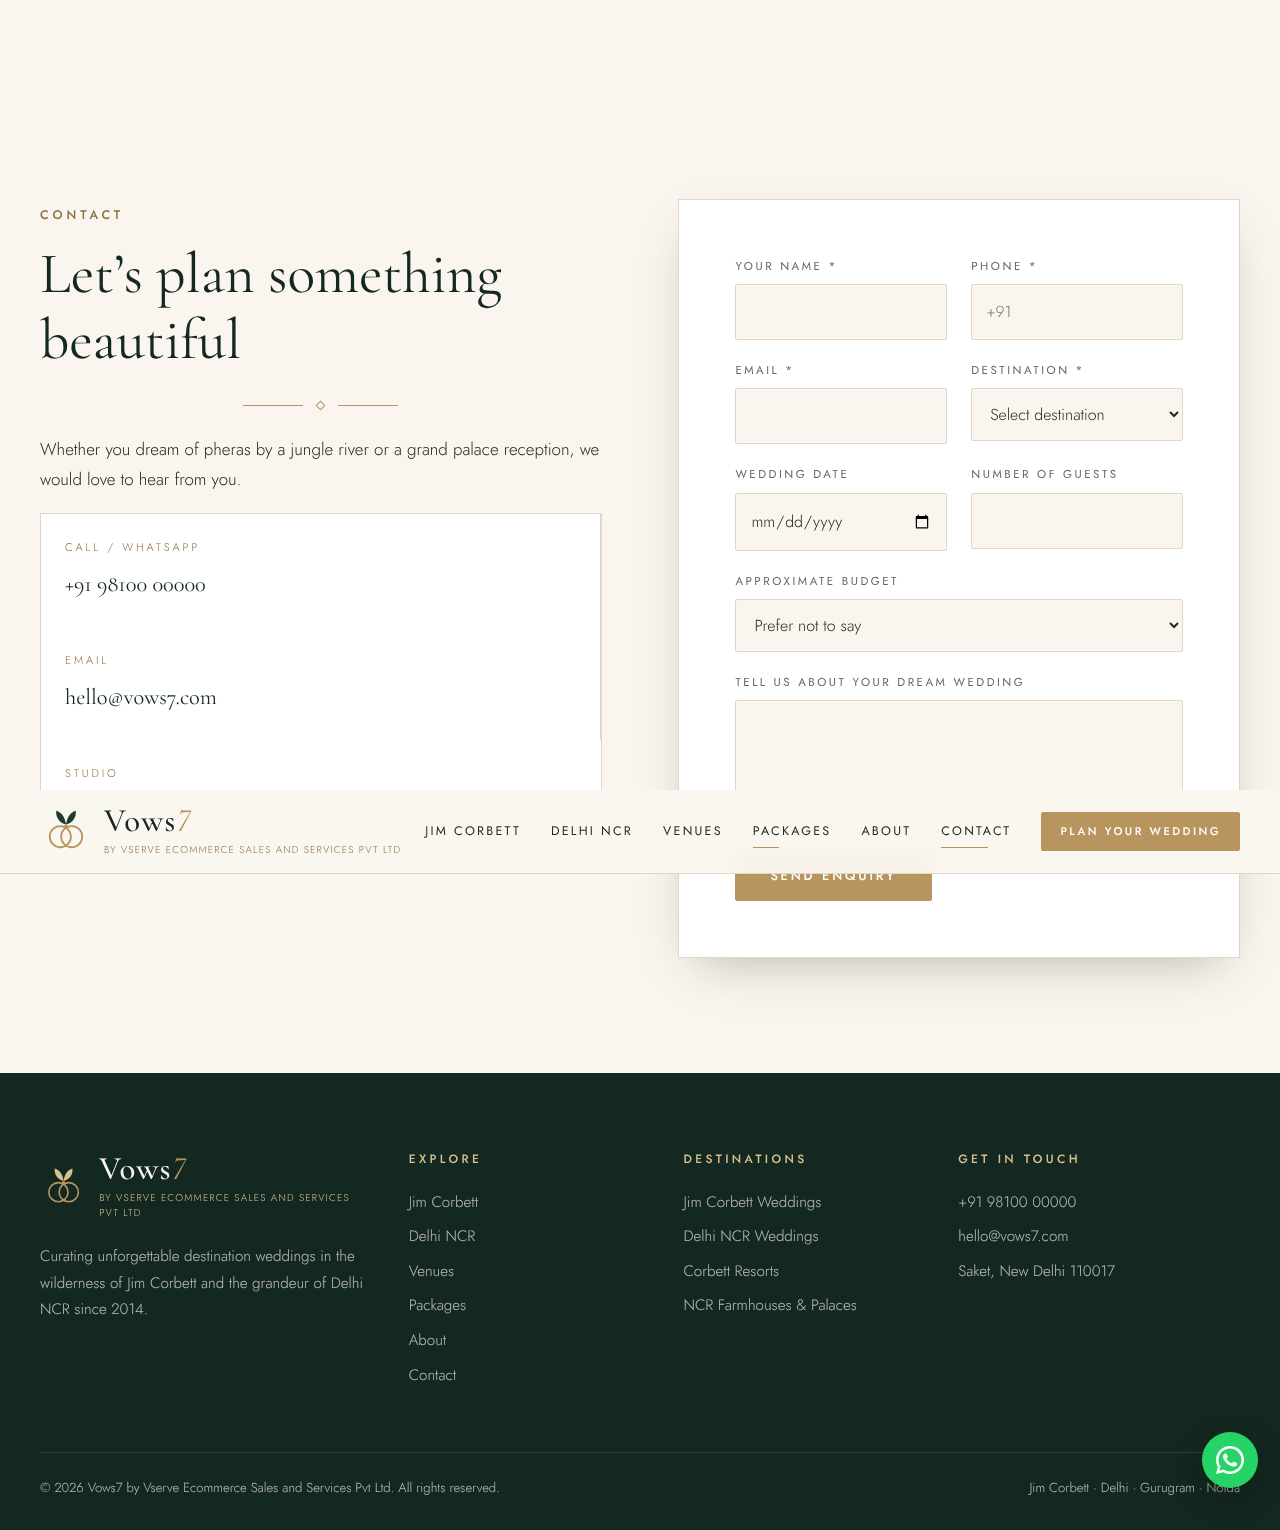
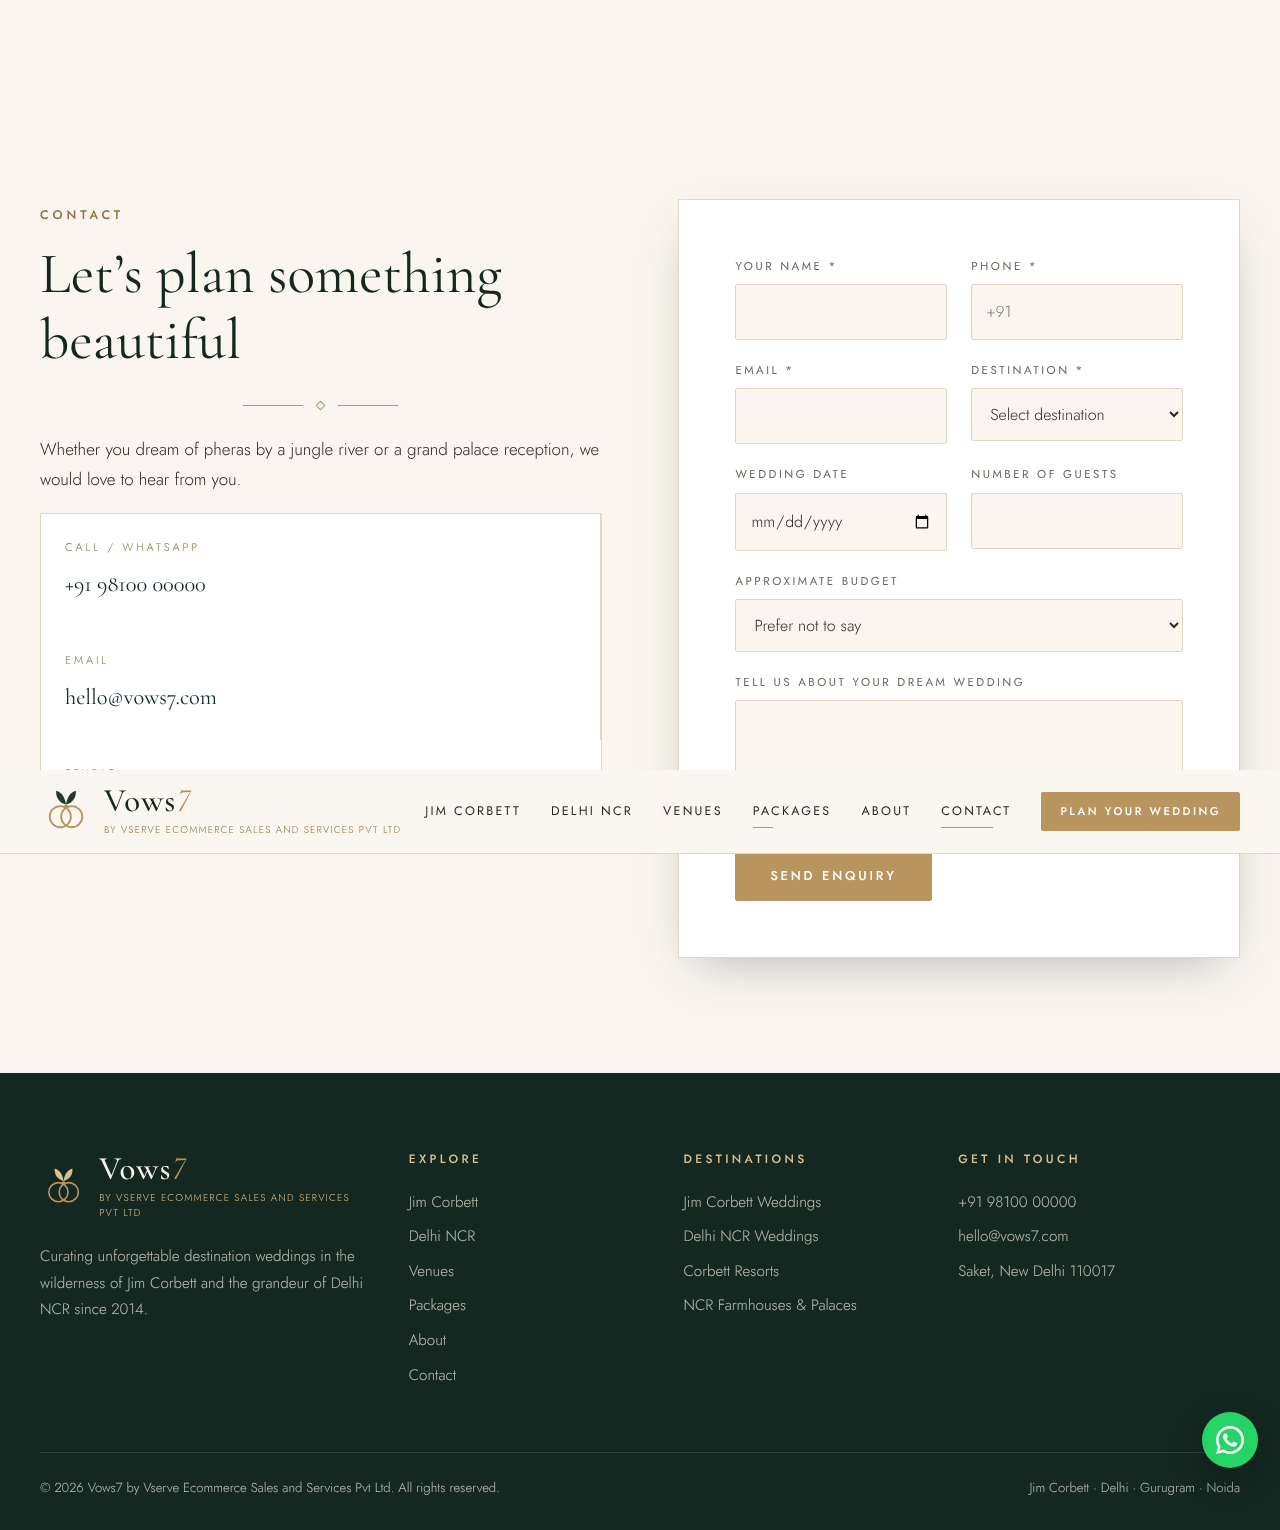
Use a new portrait hero image on phones
Claude-Session: https://claude.ai/code/session_01YAyzNRxsGeR9ifDg5XsTTi

diff --git a/frontend/lib/images.js b/frontend/lib/images.js
@@ -3,7 +3,9 @@
 const G = 'https://cdn.gamma.app/yqnjlktvyepx0zq/design-anything';
 export const IMG = {
   hero: `${G}/XtxNCRylHYEjhkY3HkTaY/W0htQoBfuJ0pGC7_mOPBl.jpg`,
-  heroMobile: `${G}/V753ZdP3feJOfPOu0BevR/8wlk6KXn6mRwWG2EOEvz0.jpg`,
+  heroMobile: `${G}/O1SrH3NcmthLLPlgCgxoh/yGJEqbPX5J3yVEJJtNFXf.jpg`,
+  // Alternative phone hero (pheras around the sacred fire):
+  // heroMobile: `${G}/IDbw39IbcVFWRxFPjJVfi/Wp9fcT743iyEhHSFlreMH.jpg`,
   corbett: `${G}/Jdzbg4YclP1VJBw0jivZq/KKAS9WriAzCJJgjUbFgYL.jpg`,
   palace: `${G}/gj4kEuKGavc07FD99bgTW/P4wXqg-oJLfjHh7YuL9jM.jpg`,
   mehendi: `${G}/ALoohHgAuIfYGFlLGIg7P/W7b2UgTmuUBXFdK_5z_9T.jpg`,

diff --git a/frontend/app/globals.css b/frontend/app/globals.css
@@ -114,7 +114,7 @@ img { max-width: 100%; display: block; }
 }
 .media--warm { background-image: var(--img), linear-gradient(135deg, #5a2e2a 0%, #8f5a3f 50%, var(--gold) 100%); }
 @media (max-width: 720px) {
-  .media[data-mobile-img] { background-image: var(--img-m), linear-gradient(160deg, var(--forest) 0%, #2f5443 55%, var(--gold-dark) 100%); }
+  .media[data-mobile-img] { background-image: var(--img-m), linear-gradient(160deg, var(--forest) 0%, #2f5443 55%, var(--gold-dark) 100%); background-position: center 75%; }
 }
 
 /* Header */
